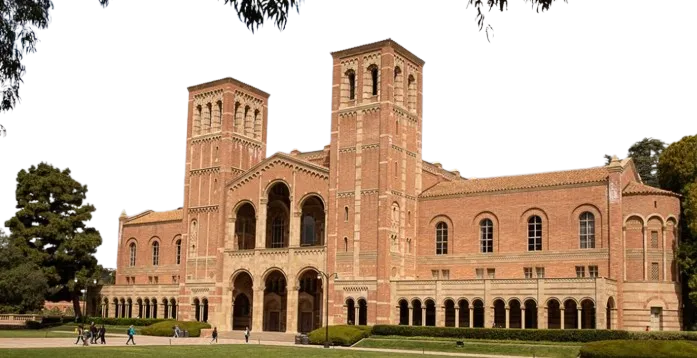
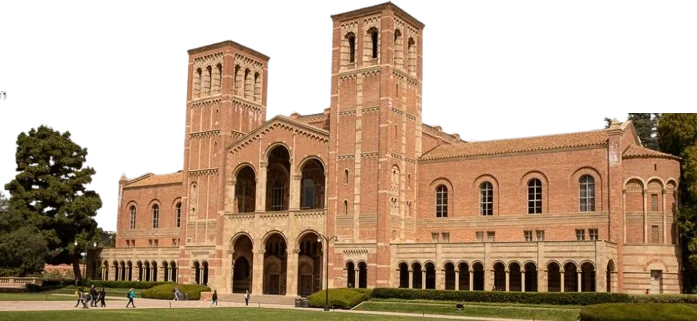
Home: clean Royce Hall cutout and fix campus image positioning
Replace the Royce Hall cutout with a cleaned version (no stray branches
above the towers) and correct its intrinsic size. The positioning
already follows the prototype (.campus-img.royce/.tower img); fix the
next/image sizes hints, since both images are sized by frame height and
render wider than the card.

Claude-Session: https://claude.ai/code/session_01QzNDQSmhjgKE63rwUnwcMq

diff --git a/components/sections/home/CampusChapters.tsx b/components/sections/home/CampusChapters.tsx
@@ -10,8 +10,9 @@ const CAMPUSES = [
     frame: "royce",
     src: "/images/campus/royce-hall.webp",
     width: 697,
-    height: 358,
-    sizes: "(max-width: 720px) 60vw, 280px",
+    height: 321,
+    // Sized by height (60% of the frame), so it renders wider than the card.
+    sizes: "(max-width: 720px) 120vw, 560px",
   },
   {
     chapter: "berkeley",
@@ -19,7 +20,8 @@ const CAMPUSES = [
     src: "/images/campus/campanile.webp",
     width: 523,
     height: 477,
-    sizes: "(max-width: 720px) 80vw, 400px",
+    // Sized by height (96% of the frame).
+    sizes: "(max-width: 720px) 95vw, 460px",
   },
   {
     chapter: "ucsc",
